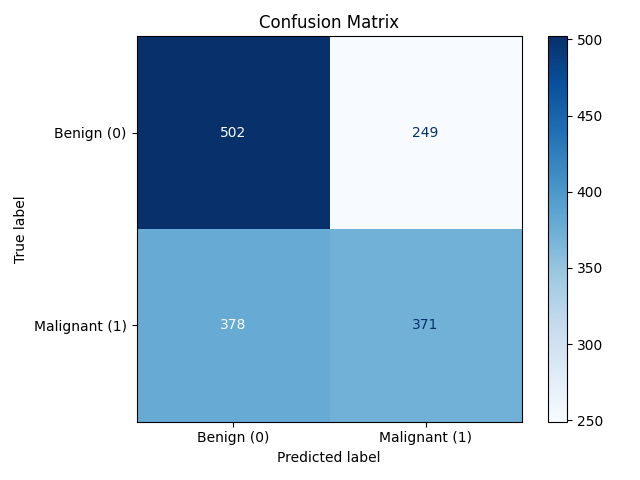
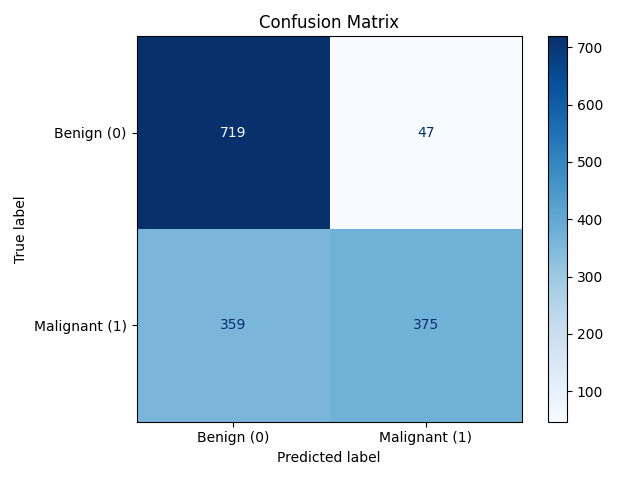
fixed typos, trained a much better model that trains well but overfits

diff --git a/recognition/s4696725_siamese/train.py b/recognition/s4696725_siamese/train.py
@@ -11,6 +11,7 @@ import matplotlib.pyplot as plt
 from tqdm import tqdm
 from modules import SiameseNet
 from dataset import generate_dataloaders
+from torch.optim.lr_scheduler import ReduceLROnPlateau
 from sklearn.metrics import accuracy_score, f1_score, precision_score, recall_score, roc_auc_score
 
 
@@ -20,7 +21,7 @@ Training loop on training set.
 def train_loop(model, device, loader, optimizer, criterion, epoch):
     model.train()
     running_loss = 0.0
-    preds, trues = [], []
+    preds, probs, trues = [], [], []
 
     for x1, x2, y in tqdm(loader, desc=f'Epoch {epoch}', leave=False):
         x1, x2, y = x1.to(device), x2.to(device), y.to(device)
@@ -35,13 +36,14 @@ def train_loop(model, device, loader, optimizer, criterion, epoch):
             prob = torch.sigmoid(logits).cpu().numpy()
             pred = (prob > 0.5).astype(int)
             preds.extend(pred)
+            probs.extend(prob)
             trues.extend(y.cpu().numpy().astype(int))
 
     acc = accuracy_score(trues, preds)
     f1 = f1_score(trues, preds, zero_division=0)
     prec = precision_score(trues, preds, zero_division=0)
     rec = recall_score(trues, preds, zero_division=0)
-    auc = roc_auc_score(trues, preds)
+    auc = roc_auc_score(trues, probs)
     return running_loss / len(loader), acc, f1, prec, rec, auc
 
 
@@ -51,7 +53,7 @@ Evaluation loop on validation set.
 def eval_loop(model, device, loader, criterion):
     model.eval()
     running_loss = 0.0
-    preds, trues = [], []
+    preds, probs, trues = [], [], []
     
     with torch.no_grad():
         for x1, x2, y in tqdm(loader, desc='Validation', leave=False):
@@ -62,11 +64,12 @@ def eval_loop(model, device, loader, criterion):
             prob = torch.sigmoid(logits).cpu().numpy()
             pred = (prob > 0.5).astype(int)
             preds.extend(pred)
+            probs.extend(prob)
             trues.extend(y.cpu().numpy().astype(int))
 
     acc = accuracy_score(trues, preds)
     f1 = f1_score(trues, preds, zero_division=0)
-    auc = roc_auc_score(trues, preds)
+    auc = roc_auc_score(trues, probs)
     return running_loss / len(loader), acc, f1, auc
 
 
@@ -84,7 +87,7 @@ def plot_metrics(history):
     plt.plot(history['auc'], label='ROC AUC')
 
     plt.title('Training Metrics')
-    plt.xlabel('Epoch #')
+    plt.xlabel('Epoch')
     plt.ylabel('Score')
     plt.legend()
     plt.grid(True)
@@ -102,12 +105,13 @@ def main():
     train_csv = './recognition/s4696725_siamese/metadata/train.csv'
     model_dir = './recognition/s4696725_siamese/model'
 
-    epochs = 15
+    epochs = 10
     device = torch.device('cuda' if torch.cuda.is_available() else 'mps' if torch.mps.is_available() else 'cpu')
     print('Using', device, '\n')
 
     model = SiameseNet(embedding_size=512).to(device)
-    optimizer = optim.Adam(model.parameters(), lr=1e-4, weight_decay=1e-5)
+    optimizer = optim.Adam(model.parameters(), lr=1e-4, weight_decay=1e-4)
+    scheduler = ReduceLROnPlateau(optimizer, mode='min', factor=0.5, patience=2)
     criterion = nn.BCEWithLogitsLoss()
     train_loader, val_loader, _ = generate_dataloaders(train_images, train_csv)
     
@@ -122,14 +126,16 @@ def main():
         history['prec'].append(prec)
         history['rec'].append(rec)
         history['auc'].append(auc)
-        print(f"Epoch {epoch}:      Loss = {loss:.4f}, Acc = {acc:.4f}, F1 = {f1:.4f}, AUC = {auc:.4f}")
+        print(f"Epoch {epoch}:    Loss = {loss:.4f}, Acc = {acc:.4f}, F1 = {f1:.4f}, AUC = {auc:.4f}")
 
         # validate every 2 epochs and final epoch
         if epoch % 2 == 0 or epoch == epochs:
             val_loss, val_acc, val_f1, val_auc = eval_loop(model, device, val_loader, criterion)
-            print(f"Validation: Loss = {val_loss:.4f}, Acc = {val_acc:.4f}, F1 = {val_f1:.4f}, AUC = {val_auc.f4}")
+            print(f"Validation: Loss = {val_loss:.4f}, Acc = {val_acc:.4f}, F1 = {val_f1:.4f}, AUC = {val_auc:.4f}")
 
-            # save best model as .pth file
+            scheduler.step(val_f1)
+
+            # save the best model as .pth file
             if val_f1 >= best_f1:
                 best_f1 = val_f1
                 os.makedirs(model_dir, exist_ok=True)

diff --git a/recognition/s4696725_siamese/modules.py b/recognition/s4696725_siamese/modules.py
@@ -5,17 +5,15 @@ Siamese model components with backbone, embedding head, and comparator/classifie
 import torch
 import torch.nn as nn
 from torchvision.models import resnet34, ResNet34_Weights
-from torchvision.models import resnet18, ResNet18_Weights   # remove this when predict.py is fully working
 
 
 """
-Backbone producing a fixed-length embedding from an input image.
+Pre-trained ResNet backbone producing a fixed-length embedding from an input image.
 """
 class EmbeddingNet(nn.Module):
     def __init__(self, embedding_size: int = 512):
         super().__init__()
-        #resnet = resnet34(weights=ResNet34_Weights.DEFAULT)
-        resnet = resnet18(weights=ResNet18_Weights.DEFAULT)     # remove this when predict.py is fully working
+        resnet = resnet34(weights=ResNet34_Weights.DEFAULT)
 
         # remove final fc
         modules = list(resnet.children())[:-1]
@@ -23,8 +21,13 @@ class EmbeddingNet(nn.Module):
         self.fc = nn.Sequential(
             nn.Linear(resnet.fc.in_features, embedding_size),
             nn.BatchNorm1d(embedding_size),
-            nn.ReLU(inplace=True)
+            nn.ReLU(inplace=True),
+            nn.Dropout(0.4)
         )
+
+        # unfreeze parameters
+        for param in self.encoder.parameters():
+            param.requires_grad = False
 
     def forward(self, x):
         # x: (B, C, H, W)
@@ -46,7 +49,7 @@ class SiameseNet(nn.Module):
         self.classifier = nn.Sequential(
             nn.Linear(embedding_size, embedding_size // 2),
             nn.ReLU(inplace=True),
-            nn.Dropout(0.3),
+            nn.Dropout(0.4),
             nn.Linear(embedding_size // 2, 1)
         )
 

diff --git a/recognition/s4696725_siamese/dataset.py b/recognition/s4696725_siamese/dataset.py
@@ -19,7 +19,7 @@ Produces pairs for siamese training.
 - transform: torchvision transforms applied to images
 - pairs_per_epoch: approximate number of pairs to generate per epoch
 """
-class SiamesePairDataset(Dataset):
+class SiameseDataset(Dataset):
     def __init__(self, image_dir: str, csv_path: str, transform=None, pairs_per_epoch: int = 15000):
         super().__init__()
         self.image_dir = image_dir
@@ -77,7 +77,7 @@ class SiamesePairDataset(Dataset):
 """
 Dataset for running inference on single images in the test set.
 """
-class SingleImageDataset(Dataset):
+"""class SingleImageDataset(Dataset):
     def __init__(self, image_dir: str, csv_path: str = None, transform=None):
         super().__init__()
         self.image_dir = image_dir
@@ -103,7 +103,7 @@ class SingleImageDataset(Dataset):
             img = self.transform(img)
 
         label = int(self.metadata.loc[filename]['target'])
-        return img, label
+        return img, label"""
     
 
 """
@@ -116,7 +116,7 @@ def generate_dataloaders(train_images: str, train_csv: str):
     torch.use_deterministic_algorithms(True, warn_only=True)
     generator = torch.Generator().manual_seed(seed)
 
-    dataset = SiamesePairDataset(train_images, train_csv, pairs_per_epoch=15000)
+    dataset = SiameseDataset(train_images, train_csv, pairs_per_epoch=15000)
 
     train = int(len(dataset) * 0.75)
     val = int(len(dataset) * 0.15)

diff --git a/recognition/s4696725_siamese/predict.py b/recognition/s4696725_siamese/predict.py
@@ -89,6 +89,7 @@ def main():
     print(f"Test Accuracy: {test_acc:.4f}")
 
     # Plot confusion matrix
+    plt.figure(figsize=(10, 10))
     matrix = confusion_matrix(y_true, y_pred)
     disp = ConfusionMatrixDisplay(confusion_matrix=matrix, display_labels=["Benign (0)", "Malignant (1)"])
     disp.plot(cmap="Blues", values_format="d")

diff --git a/recognition/s4696725_siamese/README.md b/recognition/s4696725_siamese/README.md
@@ -28,11 +28,11 @@ The training and testing datasets with the respective metadata can be downloaded
 
 All images were first standardized to a resolution of 224×224 pixels to ensure compatibility with the ResNet backbone and reduce training time. Images were converted to RGB and normalized using ImageNet statistics, reflecting the pretraining distribution of ResNet. To increase model robustness, on-the-fly augmentations were applied during training, including random horizontal flips and slight rotations of up to 10 degrees. This augmentation strategy introduces variability in the data, helping the model generalize better to unseen skin lesion images.
 
-A Siamese network requires input as pairs of images along with a label indicating whether the pair belongs to the same class (benign or malignant). Training pairs were generated dynamically from the dataset metadata where positive pairs were composed of two distinct images from the same class, while negative pairs combined one image from each class. Each epoch generated approximately 15,000 random pairs totaling 30,000 images, maintaining a roughly balanced distribution of positive and negative examples. This approach ensures the model learns to map images to a meaningful embedding space where intra-class distances are small and inter-class distances are large.
+A Siamese network requires input as pairs of images along with a label indicating whether the pair belongs to the same class (benign or malignant). Training pairs were generated dynamically from the dataset metadata where positive pairs were composed of two distinct images from the same class, while negative pairs combined one image from each class. Each epoch generated 15,000 random pairs totaling 30,000 images, maintaining a roughly balanced distribution of positive and negative examples. This approach ensures the model learns to map images to a meaningful embedding space where intra-class distances are small and inter-class distances are large.
 
 ## Validation & Inference
 
-To evaluate generalisation performance during training, a ratio of 75:15:10 of the dataset was used (85% for training, 15% for validating, 10% for testing). The validation dataset was constructed from the same pair-generation process as the training data, but with distinct random sampling. Importantly, no images were shared between training and validation splits, preventing data leakage. Validation pairs were fed in batches of 32 without shuffling to allow consistent performance measurement at the end of each epoch.
+To evaluate generalisation performance during training, a split ratio of 75:15:10 of the dataset was used (85% for training, 15% for validating, 10% for testing). The validation dataset was constructed from the same pair-generation process as the training data, but with distinct random sampling. Importantly, no images were shared between training and validation splits, preventing data leakage. Validation pairs were fed in batches of 32 without shuffling to allow consistent performance measurement at the end of each epoch.
 
 For inference, single images were used rather than pairs, reflecting real-world deployment where the model is tasked to classify an unseen lesion. Images were preprocessed identically to the training data but without random augmentations to ensure deterministic embeddings. For classification, embeddings of test images can be compared to reference embeddings from the training set using the trained Siamese classifier. This setup enables a robust evaluation of the model’s ability to distinguish between benign and malignant lesions based solely on learned similarity in the embedding space.
 
@@ -40,18 +40,18 @@ For inference, single images were used rather than pairs, reflecting real-world 
 
 ### Training
 
-- Loss: 0.35
-- Accuracy: 0.81
-- F1 Score: 0.85
-- Precision: 0.84
-- Recall: 0.85
-- ROC AUC: 0.00
+- Loss: 0.0812
+- Accuracy: 0.9729
+- F1 Score: 0.9731
+- Precision: 0.9680
+- Recall: 0.9782
+- ROC AUC: 0.9942
 
 ![Graph](training_results.png)
 
 ### Testing
 
-- Accuracy: 0.582
+- Accuracy: 0.7293
 
 ![Graph](confusion_matrix.png)
 
